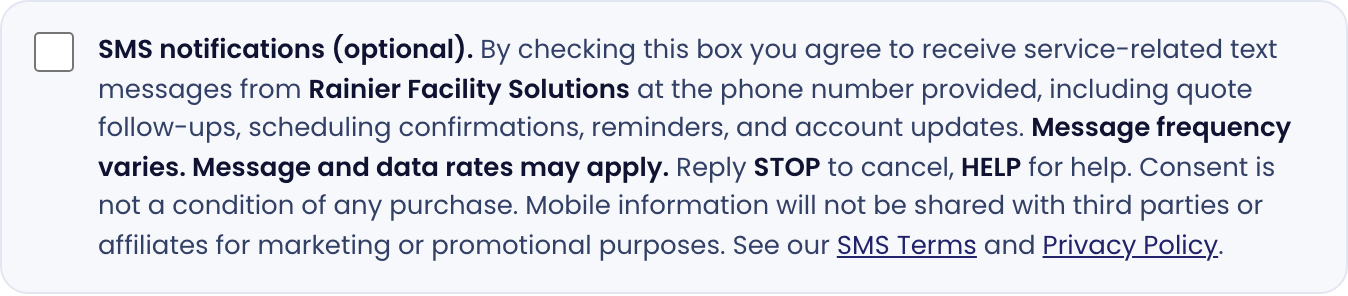
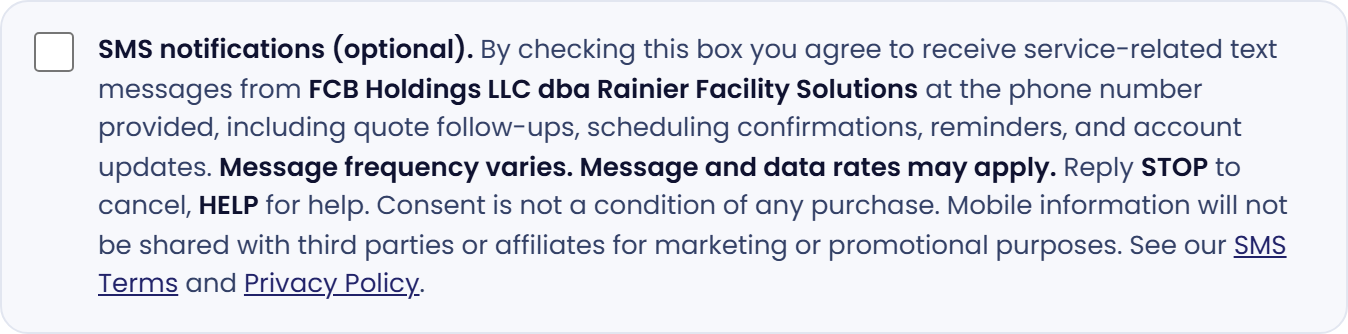
A2P 10DLC: tie FCB Holdings LLC to Rainier Facility Solutions DBA
The Twilio/TCR brand is registered under the legal entity FCB Holdings
LLC, but the site only showed the DBA "Rainier Facility Solutions," so
carrier vetting could not tie the registered brand to the website
(repeated A2P rejections). Surface the legal entity where A2P review
requires it:

- SMS opt-in consent on all four web forms (homepage popup, Quote,
  Contact, Careers) and the word-for-word card on /sms-opt-in.html
- Privacy Policy and Terms of Service entity definitions (defined once)
- Site-wide footer copyright line
- Regenerated the /sms-opt-in.html consent screenshots to match

Body copy, page titles, and marketing headlines keep the "Rainier
Facility Solutions" brand name.

diff --git a/site/sms-opt-in.html b/site/sms-opt-in.html
@@ -59,7 +59,7 @@
 <section class="section">
   <div class="container" style="max-width:820px">
 
-    <p>This page exists to show, in one place, the exact consent language that Rainier Facility Solutions presents at every SMS opt-in collection point on this website. It is provided to support carrier and aggregator verification of our A2P 10DLC messaging program. For the complete legal terms governing our SMS program, see <a href="terms.html#sms-program">Section 11 of our Terms of Service</a>. For how we handle the privacy of mobile information, see <a href="privacy.html#sms-program">Section 7 of our Privacy Policy</a>.</p>
+    <p>This page exists to show, in one place, the exact consent language that FCB Holdings LLC dba Rainier Facility Solutions presents at every SMS opt-in collection point on this website. It is provided to support carrier and aggregator verification of our A2P 10DLC messaging program. For the complete legal terms governing our SMS program, see <a href="terms.html#sms-program">Section 11 of our Terms of Service</a>. For how we handle the privacy of mobile information, see <a href="privacy.html#sms-program">Section 7 of our Privacy Policy</a>.</p>
 
     <h2 id="how-to-opt-in">How to opt in</h2>
     <p>The only way to opt in to the Rainier Facility Solutions SMS Program is to affirmatively check the SMS consent checkbox on one of our website intake forms before you submit it. The checkbox is unchecked by default — you must check it yourself to opt in. The intake forms that present the SMS consent checkbox are:</p>
@@ -75,7 +75,7 @@
     <p>The text below appears, word for word, next to the SMS consent checkbox on every web form on this site that collects a phone number:</p>
 
     <div class="card" style="background:var(--primary-bg);border-color:var(--primary-soft);margin:18px 0 28px">
-      <p style="margin-bottom:0"><strong>SMS notifications (optional).</strong> By checking this box you agree to receive service-related text messages from <strong>Rainier Facility Solutions</strong> at the phone number provided, including quote follow-ups, scheduling confirmations, reminders, and account updates. <strong>Message frequency varies. Message and data rates may apply.</strong> Reply <strong>STOP</strong> to cancel, <strong>HELP</strong> for help. Consent is not a condition of any purchase. Mobile information will not be shared with third parties or affiliates for marketing or promotional purposes. See our <a href="terms.html#sms-program">SMS Terms</a> and <a href="privacy.html#sms-program">Privacy Policy</a>.</p>
+      <p style="margin-bottom:0"><strong>SMS notifications (optional).</strong> By checking this box you agree to receive service-related text messages from <strong>FCB Holdings LLC dba Rainier Facility Solutions</strong> at the phone number provided, including quote follow-ups, scheduling confirmations, reminders, and account updates. <strong>Message frequency varies. Message and data rates may apply.</strong> Reply <strong>STOP</strong> to cancel, <strong>HELP</strong> for help. Consent is not a condition of any purchase. Mobile information will not be shared with third parties or affiliates for marketing or promotional purposes. See our <a href="terms.html#sms-program">SMS Terms</a> and <a href="privacy.html#sms-program">Privacy Policy</a>.</p>
     </div>
 
     <h2 id="screenshots">Screenshots of the consent checkbox in context</h2>
@@ -87,7 +87,7 @@
     </figure>
 
     <figure style="margin:24px 0 32px">
-      <img src="assets/sms-opt-in-checkbox-closeup.png" alt="Close-up of the SMS consent checkbox in its default unchecked state, with the full disclosure text reading: SMS notifications (optional). By checking this box you agree to receive service-related text messages from Rainier Facility Solutions at the phone number provided, including quote follow-ups, scheduling confirmations, reminders, and account updates. Message frequency varies. Message and data rates may apply. Reply STOP to cancel, HELP for help. Consent is not a condition of any purchase. Mobile information will not be shared with third parties or affiliates for marketing or promotional purposes. See our SMS Terms and Privacy Policy." loading="lazy" width="1348" height="296" style="width:100%;height:auto;border:1px solid var(--card-border);border-radius:12px;box-shadow:var(--shadow-sm)">
+      <img src="assets/sms-opt-in-checkbox-closeup.png" alt="Close-up of the SMS consent checkbox in its default unchecked state, with the full disclosure text reading: SMS notifications (optional). By checking this box you agree to receive service-related text messages from FCB Holdings LLC dba Rainier Facility Solutions at the phone number provided, including quote follow-ups, scheduling confirmations, reminders, and account updates. Message frequency varies. Message and data rates may apply. Reply STOP to cancel, HELP for help. Consent is not a condition of any purchase. Mobile information will not be shared with third parties or affiliates for marketing or promotional purposes. See our SMS Terms and Privacy Policy." loading="lazy" width="1348" height="296" style="width:100%;height:auto;border:1px solid var(--card-border);border-radius:12px;box-shadow:var(--shadow-sm)">
       <figcaption class="muted" style="font-size:13px;text-align:center;margin-top:10px">Close-up of the consent checkbox and full disclosure label. The checkbox is unchecked by default; the user must affirmatively check it to opt in.</figcaption>
     </figure>
 
@@ -136,7 +136,7 @@
       <div><h4>Company</h4><ul class="footer-list"><li><a href="about.html">About</a></li><li><a href="testimonials.html">Reviews</a></li><li><a href="faq.html">FAQ</a></li><li><a href="service-areas.html">Service Areas</a></li><li><a href="careers.html">Careers</a></li><li><a href="contact.html">Contact</a></li></ul></div>
       <div><h4>Hours</h4><ul class="footer-list"><li><strong>Open 24/7</strong></li><li>Always-on dispatch for emergencies</li></ul></div>
     </div>
-    <div class="footer-bottom"><span>© <span id="yr"></span> Rainier Facility Solutions.</span><span><a href="privacy.html">Privacy</a> · <a href="terms.html">Terms</a> · <a href="sms-opt-in.html">SMS Opt-In</a> · <a href="sitemap.xml">Sitemap</a></span></div>
+    <div class="footer-bottom"><span>© <span id="yr"></span> FCB Holdings LLC dba Rainier Facility Solutions.</span><span><a href="privacy.html">Privacy</a> · <a href="terms.html">Terms</a> · <a href="sms-opt-in.html">SMS Opt-In</a> · <a href="sitemap.xml">Sitemap</a></span></div>
   </div>
 </footer>
 

diff --git a/site/contact.html b/site/contact.html
@@ -132,7 +132,7 @@
           <label class="consent-label" for="smsConsent">
             <input type="checkbox" id="smsConsent" name="sms_consent" value="yes">
             <span class="consent-text">
-              <strong>SMS notifications (optional).</strong> By checking this box you agree to receive service-related text messages from <strong>Rainier Facility Solutions</strong> at the phone number provided, including quote follow-ups, scheduling confirmations, reminders, and account updates. <strong>Message frequency varies. Message and data rates may apply.</strong> Reply <strong>STOP</strong> to cancel, <strong>HELP</strong> for help. Consent is not a condition of any purchase. Mobile information will not be shared with third parties or affiliates for marketing or promotional purposes. See our <a href="terms.html#sms-program">SMS Terms</a> and <a href="privacy.html#sms-program">Privacy Policy</a>.
+              <strong>SMS notifications (optional).</strong> By checking this box you agree to receive service-related text messages from <strong>FCB Holdings LLC dba Rainier Facility Solutions</strong> at the phone number provided, including quote follow-ups, scheduling confirmations, reminders, and account updates. <strong>Message frequency varies. Message and data rates may apply.</strong> Reply <strong>STOP</strong> to cancel, <strong>HELP</strong> for help. Consent is not a condition of any purchase. Mobile information will not be shared with third parties or affiliates for marketing or promotional purposes. See our <a href="terms.html#sms-program">SMS Terms</a> and <a href="privacy.html#sms-program">Privacy Policy</a>.
             </span>
           </label>
         </div>
@@ -172,7 +172,7 @@
       <div><h4>Company</h4><ul class="footer-list"><li><a href="about.html">About</a></li><li><a href="testimonials.html">Reviews</a></li><li><a href="faq.html">FAQ</a></li><li><a href="service-areas.html">Service Areas</a></li><li><a href="careers.html">Careers</a></li><li><a href="contact.html">Contact</a></li></ul></div>
       <div><h4>Hours</h4><ul class="footer-list"><li><strong>Open 24/7</strong></li><li>Always-on dispatch for emergencies</li></ul><h4 style="margin-top:24px">Guarantees</h4><ul class="footer-list"><li>✓ Satisfaction</li><li>✓ Consistency</li><li>✓ Security</li></ul></div>
     </div>
-    <div class="footer-bottom"><span>© <span id="yr"></span> Rainier Facility Solutions.</span><span><a href="privacy.html">Privacy</a> · <a href="terms.html">Terms</a> · <a href="sms-opt-in.html">SMS Opt-In</a> · <a href="sitemap.xml">Sitemap</a></span></div>
+    <div class="footer-bottom"><span>© <span id="yr"></span> FCB Holdings LLC dba Rainier Facility Solutions.</span><span><a href="privacy.html">Privacy</a> · <a href="terms.html">Terms</a> · <a href="sms-opt-in.html">SMS Opt-In</a> · <a href="sitemap.xml">Sitemap</a></span></div>
   </div>
 </footer>
 

diff --git a/site/careers.html b/site/careers.html
@@ -213,7 +213,7 @@
         <label class="consent-label" for="aSmsConsent">
           <input type="checkbox" id="aSmsConsent" name="sms_consent" value="yes">
           <span class="consent-text">
-            <strong>SMS notifications (optional).</strong> By checking this box you agree to receive recruiting-related text messages from <strong>Rainier Facility Solutions</strong> at the phone number provided, including application status updates, interview scheduling, and onboarding reminders. <strong>Message frequency varies. Message and data rates may apply.</strong> Reply <strong>STOP</strong> to cancel, <strong>HELP</strong> for help. Consent is not a condition of employment or being considered for a role. Mobile information will not be shared with third parties or affiliates for marketing or promotional purposes. See our <a href="terms.html#sms-program">SMS Terms</a> and <a href="privacy.html#sms-program">Privacy Policy</a>.
+            <strong>SMS notifications (optional).</strong> By checking this box you agree to receive recruiting-related text messages from <strong>FCB Holdings LLC dba Rainier Facility Solutions</strong> at the phone number provided, including application status updates, interview scheduling, and onboarding reminders. <strong>Message frequency varies. Message and data rates may apply.</strong> Reply <strong>STOP</strong> to cancel, <strong>HELP</strong> for help. Consent is not a condition of employment or being considered for a role. Mobile information will not be shared with third parties or affiliates for marketing or promotional purposes. See our <a href="terms.html#sms-program">SMS Terms</a> and <a href="privacy.html#sms-program">Privacy Policy</a>.
           </span>
         </label>
       </div>
@@ -246,7 +246,7 @@
       <div><h4>Company</h4><ul class="footer-list"><li><a href="about.html">About</a></li><li><a href="testimonials.html">Reviews</a></li><li><a href="faq.html">FAQ</a></li><li><a href="service-areas.html">Service Areas</a></li><li><a href="careers.html">Careers</a></li><li><a href="contact.html">Contact</a></li></ul></div>
       <div><h4>Hours</h4><ul class="footer-list"><li><strong>Open 24/7</strong></li><li>Always-on dispatch for emergencies</li></ul></div>
     </div>
-    <div class="footer-bottom"><span>© <span id="yr"></span> Rainier Facility Solutions.</span><span><a href="privacy.html">Privacy</a> · <a href="terms.html">Terms</a> · <a href="sms-opt-in.html">SMS Opt-In</a> · <a href="sitemap.xml">Sitemap</a></span></div>
+    <div class="footer-bottom"><span>© <span id="yr"></span> FCB Holdings LLC dba Rainier Facility Solutions.</span><span><a href="privacy.html">Privacy</a> · <a href="terms.html">Terms</a> · <a href="sms-opt-in.html">SMS Opt-In</a> · <a href="sitemap.xml">Sitemap</a></span></div>
   </div>
 </footer>
 

diff --git a/site/quote.html b/site/quote.html
@@ -173,7 +173,7 @@
           <label class="consent-label" for="qSmsConsent">
             <input type="checkbox" id="qSmsConsent" name="sms_consent" value="yes">
             <span class="consent-text">
-              <strong>SMS notifications (optional).</strong> By checking this box you agree to receive service-related text messages from <strong>Rainier Facility Solutions</strong> at the phone number provided, including quote follow-ups, scheduling confirmations, reminders, and account updates. <strong>Message frequency varies. Message and data rates may apply.</strong> Reply <strong>STOP</strong> to cancel, <strong>HELP</strong> for help. Consent is not a condition of any purchase. Mobile information will not be shared with third parties or affiliates for marketing or promotional purposes. See our <a href="terms.html#sms-program">SMS Terms</a> and <a href="privacy.html#sms-program">Privacy Policy</a>.
+              <strong>SMS notifications (optional).</strong> By checking this box you agree to receive service-related text messages from <strong>FCB Holdings LLC dba Rainier Facility Solutions</strong> at the phone number provided, including quote follow-ups, scheduling confirmations, reminders, and account updates. <strong>Message frequency varies. Message and data rates may apply.</strong> Reply <strong>STOP</strong> to cancel, <strong>HELP</strong> for help. Consent is not a condition of any purchase. Mobile information will not be shared with third parties or affiliates for marketing or promotional purposes. See our <a href="terms.html#sms-program">SMS Terms</a> and <a href="privacy.html#sms-program">Privacy Policy</a>.
             </span>
           </label>
         </div>
@@ -209,7 +209,7 @@
       <div><h4>Company</h4><ul class="footer-list"><li><a href="about.html">About</a></li><li><a href="testimonials.html">Reviews</a></li><li><a href="faq.html">FAQ</a></li><li><a href="service-areas.html">Service Areas</a></li><li><a href="careers.html">Careers</a></li><li><a href="contact.html">Contact</a></li></ul></div>
       <div><h4>Hours</h4><ul class="footer-list"><li><strong>Open 24/7</strong></li><li>Always-on dispatch for emergencies</li></ul></div>
     </div>
-    <div class="footer-bottom"><span>© <span id="yr"></span> Rainier Facility Solutions.</span><span><a href="privacy.html">Privacy</a> · <a href="terms.html">Terms</a> · <a href="sms-opt-in.html">SMS Opt-In</a> · <a href="sitemap.xml">Sitemap</a></span></div>
+    <div class="footer-bottom"><span>© <span id="yr"></span> FCB Holdings LLC dba Rainier Facility Solutions.</span><span><a href="privacy.html">Privacy</a> · <a href="terms.html">Terms</a> · <a href="sms-opt-in.html">SMS Opt-In</a> · <a href="sitemap.xml">Sitemap</a></span></div>
   </div>
 </footer>
 

diff --git a/site/terms.html b/site/terms.html
@@ -59,7 +59,7 @@
 <section class="section">
   <div class="container" style="max-width:820px">
 
-    <p>These Terms of Service ("<strong>Terms</strong>") govern your use of the website at <a href="https://rainierfacilitysolutions.com">rainierfacilitysolutions.com</a> ("the <strong>Site</strong>") and the cleaning, janitorial, floor care, exterior, post-construction, one-time, and emergency response services (collectively, the "<strong>Services</strong>") provided by <strong>Rainier Facility Solutions</strong>, a Washington State business with offices at 823 Main Street, Suite 2, Sumner, WA 98390 ("<strong>Rainier</strong>," "<strong>we</strong>," "<strong>us</strong>," or "<strong>our</strong>"). By using the Site, requesting a quote, scheduling Services, or opting into our SMS messaging program, you agree to these Terms.</p>
+    <p>These Terms of Service ("<strong>Terms</strong>") govern your use of the website at <a href="https://rainierfacilitysolutions.com">rainierfacilitysolutions.com</a> ("the <strong>Site</strong>") and the cleaning, janitorial, floor care, exterior, post-construction, one-time, and emergency response services (collectively, the "<strong>Services</strong>") provided by <strong>FCB Holdings LLC dba Rainier Facility Solutions</strong>, a Washington State business with offices at 823 Main Street, Suite 2, Sumner, WA 98390 ("<strong>Rainier</strong>," "<strong>we</strong>," "<strong>us</strong>," or "<strong>our</strong>"). By using the Site, requesting a quote, scheduling Services, or opting into our SMS messaging program, you agree to these Terms.</p>
 
     <p>If you do not agree to these Terms, please do not use the Site or our Services.</p>
 
@@ -212,7 +212,7 @@
       <div><h4>Company</h4><ul class="footer-list"><li><a href="about.html">About</a></li><li><a href="testimonials.html">Reviews</a></li><li><a href="faq.html">FAQ</a></li><li><a href="service-areas.html">Service Areas</a></li><li><a href="careers.html">Careers</a></li><li><a href="contact.html">Contact</a></li></ul></div>
       <div><h4>Hours</h4><ul class="footer-list"><li><strong>Open 24/7</strong></li><li>Always-on dispatch for emergencies</li></ul></div>
     </div>
-    <div class="footer-bottom"><span>© <span id="yr"></span> Rainier Facility Solutions.</span><span><a href="privacy.html">Privacy</a> · <a href="terms.html">Terms</a> · <a href="sms-opt-in.html">SMS Opt-In</a> · <a href="sitemap.xml">Sitemap</a></span></div>
+    <div class="footer-bottom"><span>© <span id="yr"></span> FCB Holdings LLC dba Rainier Facility Solutions.</span><span><a href="privacy.html">Privacy</a> · <a href="terms.html">Terms</a> · <a href="sms-opt-in.html">SMS Opt-In</a> · <a href="sitemap.xml">Sitemap</a></span></div>
   </div>
 </footer>
 

diff --git a/site/privacy.html b/site/privacy.html
@@ -59,7 +59,7 @@
 <section class="section">
   <div class="container" style="max-width:820px">
 
-    <p>Rainier Facility Solutions ("<strong>Rainier</strong>," "<strong>we</strong>," "<strong>us</strong>," or "<strong>our</strong>") respects your privacy. This Privacy Policy describes how we collect, use, disclose, and safeguard the information you provide when you visit <a href="https://rainierfacilitysolutions.com">rainierfacilitysolutions.com</a> (the "<strong>Site</strong>"), request a quote, schedule services, apply for a job, or interact with our SMS messaging program. By using the Site or our services you consent to the practices described in this policy.</p>
+    <p>FCB Holdings LLC dba Rainier Facility Solutions ("<strong>Rainier</strong>," "<strong>we</strong>," "<strong>us</strong>," or "<strong>our</strong>") respects your privacy. This Privacy Policy describes how we collect, use, disclose, and safeguard the information you provide when you visit <a href="https://rainierfacilitysolutions.com">rainierfacilitysolutions.com</a> (the "<strong>Site</strong>"), request a quote, schedule services, apply for a job, or interact with our SMS messaging program. By using the Site or our services you consent to the practices described in this policy.</p>
 
     <p>Rainier Facility Solutions is a Washington State business with offices at 823 Main Street, Suite 2, Sumner, WA 98390.</p>
 
@@ -211,7 +211,7 @@
       <div><h4>Company</h4><ul class="footer-list"><li><a href="about.html">About</a></li><li><a href="testimonials.html">Reviews</a></li><li><a href="faq.html">FAQ</a></li><li><a href="service-areas.html">Service Areas</a></li><li><a href="careers.html">Careers</a></li><li><a href="contact.html">Contact</a></li></ul></div>
       <div><h4>Hours</h4><ul class="footer-list"><li><strong>Open 24/7</strong></li><li>Always-on dispatch for emergencies</li></ul></div>
     </div>
-    <div class="footer-bottom"><span>© <span id="yr"></span> Rainier Facility Solutions.</span><span><a href="privacy.html">Privacy</a> · <a href="terms.html">Terms</a> · <a href="sms-opt-in.html">SMS Opt-In</a> · <a href="sitemap.xml">Sitemap</a></span></div>
+    <div class="footer-bottom"><span>© <span id="yr"></span> FCB Holdings LLC dba Rainier Facility Solutions.</span><span><a href="privacy.html">Privacy</a> · <a href="terms.html">Terms</a> · <a href="sms-opt-in.html">SMS Opt-In</a> · <a href="sitemap.xml">Sitemap</a></span></div>
   </div>
 </footer>
 

diff --git a/site/assets/site.js b/site/assets/site.js
@@ -99,7 +99,7 @@ window.RFS_WEBHOOKS = window.RFS_WEBHOOKS || {
           <label class="consent-label" for="rfsLmSms">
             <input type="checkbox" id="rfsLmSms" name="sms_consent" value="yes">
             <span class="consent-text">
-              <strong>SMS notifications (optional).</strong> By checking this box you agree to receive service-related text messages from <strong>Rainier Facility Solutions</strong> at the phone number provided. <strong>Message frequency varies. Msg &amp; data rates may apply.</strong> Reply <strong>STOP</strong> to cancel, <strong>HELP</strong> for help. Consent is not a condition of any purchase. Mobile information will not be shared with third parties or affiliates for marketing or promotional purposes. See our <a href="terms.html#sms-program" target="_blank">SMS Terms</a> and <a href="privacy.html#sms-program" target="_blank">Privacy Policy</a>.
+              <strong>SMS notifications (optional).</strong> By checking this box you agree to receive service-related text messages from <strong>FCB Holdings LLC dba Rainier Facility Solutions</strong> at the phone number provided. <strong>Message frequency varies. Msg &amp; data rates may apply.</strong> Reply <strong>STOP</strong> to cancel, <strong>HELP</strong> for help. Consent is not a condition of any purchase. Mobile information will not be shared with third parties or affiliates for marketing or promotional purposes. See our <a href="terms.html#sms-program" target="_blank">SMS Terms</a> and <a href="privacy.html#sms-program" target="_blank">Privacy Policy</a>.
             </span>
           </label>
         </div>

diff --git a/site/about.html b/site/about.html
@@ -209,7 +209,7 @@
       <div><h4>Company</h4><ul class="footer-list"><li><a href="about.html">About Us</a></li><li><a href="testimonials.html">Reviews</a></li><li><a href="faq.html">FAQ</a></li><li><a href="service-areas.html">Service Areas</a></li><li><a href="careers.html">Careers</a></li><li><a href="contact.html">Contact</a></li><li><a href="quote.html">Free Quote</a></li></ul></div>
       <div><h4>Hours</h4><ul class="footer-list"><li><strong>Open 24/7</strong></li><li>Always-on dispatch for emergencies</li></ul><h4 style="margin-top:24px">Guarantees</h4><ul class="footer-list"><li>✓ 100% Satisfaction</li><li>✓ 100% Consistency</li><li>✓ 100% Security</li></ul></div>
     </div>
-    <div class="footer-bottom"><span>© <span id="yr"></span> Rainier Facility Solutions. All rights reserved.</span><span><a href="privacy.html">Privacy</a> · <a href="terms.html">Terms</a> · <a href="sms-opt-in.html">SMS Opt-In</a> · <a href="sitemap.xml">Sitemap</a></span></div>
+    <div class="footer-bottom"><span>© <span id="yr"></span> FCB Holdings LLC dba Rainier Facility Solutions. All rights reserved.</span><span><a href="privacy.html">Privacy</a> · <a href="terms.html">Terms</a> · <a href="sms-opt-in.html">SMS Opt-In</a> · <a href="sitemap.xml">Sitemap</a></span></div>
   </div>
 </footer>
 

diff --git a/site/services/janitorial.html b/site/services/janitorial.html
@@ -140,7 +140,7 @@
       <div><h4>Company</h4><ul class="footer-list"><li><a href="../about.html">About</a></li><li><a href="../testimonials.html">Reviews</a></li><li><a href="../faq.html">FAQ</a></li><li><a href="../service-areas.html">Service Areas</a></li><li><a href="../careers.html">Careers</a></li><li><a href="../contact.html">Contact</a></li></ul></div>
       <div><h4>Hours</h4><ul class="footer-list"><li><strong>Open 24/7</strong></li><li>Always-on dispatch for emergencies</li></ul></div>
     </div>
-    <div class="footer-bottom"><span>© <span id="yr"></span> Rainier Facility Solutions. All rights reserved.</span><span><a href="../privacy.html">Privacy</a> · <a href="../terms.html">Terms</a> · <a href="../sms-opt-in.html">SMS Opt-In</a> · <a href="../sitemap.xml">Sitemap</a></span></div>
+    <div class="footer-bottom"><span>© <span id="yr"></span> FCB Holdings LLC dba Rainier Facility Solutions. All rights reserved.</span><span><a href="../privacy.html">Privacy</a> · <a href="../terms.html">Terms</a> · <a href="../sms-opt-in.html">SMS Opt-In</a> · <a href="../sitemap.xml">Sitemap</a></span></div>
   </div>
 </footer>
 

diff --git a/site/services/exterior-cleaning.html b/site/services/exterior-cleaning.html
@@ -184,7 +184,7 @@
       <div><h4>Company</h4><ul class="footer-list"><li><a href="../about.html">About</a></li><li><a href="../testimonials.html">Reviews</a></li><li><a href="../faq.html">FAQ</a></li><li><a href="../service-areas.html">Service Areas</a></li><li><a href="../careers.html">Careers</a></li><li><a href="../contact.html">Contact</a></li></ul></div>
       <div><h4>Hours</h4><ul class="footer-list"><li><strong>Open 24/7</strong></li><li>Always-on dispatch for emergencies</li></ul></div>
     </div>
-    <div class="footer-bottom"><span>© <span id="yr"></span> Rainier Facility Solutions.</span><span><a href="../privacy.html">Privacy</a> · <a href="../terms.html">Terms</a> · <a href="../sms-opt-in.html">SMS Opt-In</a> · <a href="../sitemap.xml">Sitemap</a></span></div>
+    <div class="footer-bottom"><span>© <span id="yr"></span> FCB Holdings LLC dba Rainier Facility Solutions.</span><span><a href="../privacy.html">Privacy</a> · <a href="../terms.html">Terms</a> · <a href="../sms-opt-in.html">SMS Opt-In</a> · <a href="../sitemap.xml">Sitemap</a></span></div>
   </div>
 </footer>
 

diff --git a/site/services/floor-carpet-care.html b/site/services/floor-carpet-care.html
@@ -133,7 +133,7 @@
       <div><h4>Company</h4><ul class="footer-list"><li><a href="../about.html">About</a></li><li><a href="../testimonials.html">Reviews</a></li><li><a href="../faq.html">FAQ</a></li><li><a href="../service-areas.html">Service Areas</a></li><li><a href="../careers.html">Careers</a></li><li><a href="../contact.html">Contact</a></li></ul></div>
       <div><h4>Hours</h4><ul class="footer-list"><li><strong>Open 24/7</strong></li><li>Always-on dispatch for emergencies</li></ul></div>
     </div>
-    <div class="footer-bottom"><span>© <span id="yr"></span> Rainier Facility Solutions.</span><span><a href="../privacy.html">Privacy</a> · <a href="../terms.html">Terms</a> · <a href="../sms-opt-in.html">SMS Opt-In</a> · <a href="../sitemap.xml">Sitemap</a></span></div>
+    <div class="footer-bottom"><span>© <span id="yr"></span> FCB Holdings LLC dba Rainier Facility Solutions.</span><span><a href="../privacy.html">Privacy</a> · <a href="../terms.html">Terms</a> · <a href="../sms-opt-in.html">SMS Opt-In</a> · <a href="../sitemap.xml">Sitemap</a></span></div>
   </div>
 </footer>
 

diff --git a/site/services/one-time-emergency.html b/site/services/one-time-emergency.html
@@ -142,7 +142,7 @@
       <div><h4>Company</h4><ul class="footer-list"><li><a href="../about.html">About</a></li><li><a href="../testimonials.html">Reviews</a></li><li><a href="../faq.html">FAQ</a></li><li><a href="../service-areas.html">Service Areas</a></li><li><a href="../careers.html">Careers</a></li><li><a href="../contact.html">Contact</a></li></ul></div>
       <div><h4>Hours</h4><ul class="footer-list"><li><strong>Open 24/7</strong></li><li>Always-on dispatch for emergencies</li></ul></div>
     </div>
-    <div class="footer-bottom"><span>© <span id="yr"></span> Rainier Facility Solutions.</span><span><a href="../privacy.html">Privacy</a> · <a href="../terms.html">Terms</a> · <a href="../sms-opt-in.html">SMS Opt-In</a> · <a href="../sitemap.xml">Sitemap</a></span></div>
+    <div class="footer-bottom"><span>© <span id="yr"></span> FCB Holdings LLC dba Rainier Facility Solutions.</span><span><a href="../privacy.html">Privacy</a> · <a href="../terms.html">Terms</a> · <a href="../sms-opt-in.html">SMS Opt-In</a> · <a href="../sitemap.xml">Sitemap</a></span></div>
   </div>
 </footer>
 
